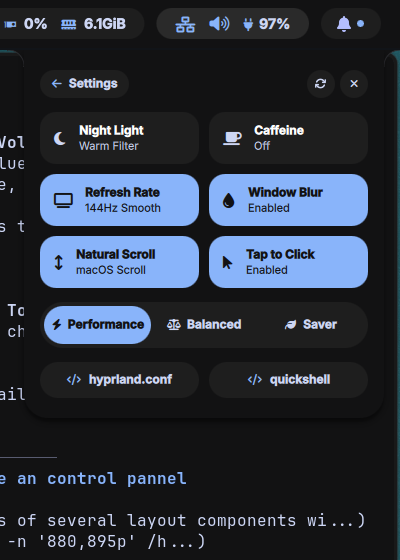
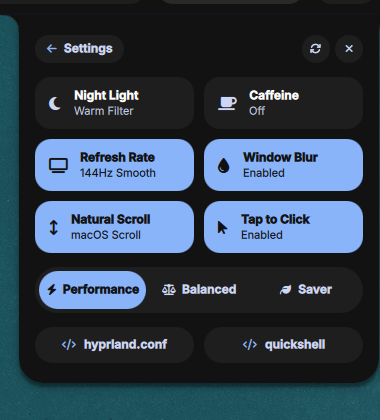
docs: update README with clean workspace screenshots and interactive UI showcase

diff --git a/README.md b/README.md
@@ -11,7 +11,7 @@ A modern, fluid, and cohesive Linux desktop environment powered by **Hyprland** 
 
 <br/>
 
-<img src="assets/desktop_preview.png" alt="Desktop Preview" width="90%"/>
+<img src="assets/desktop_preview.png" alt="Clean Desktop Preview" width="100%"/>
 
 </div>
 
@@ -19,28 +19,50 @@ A modern, fluid, and cohesive Linux desktop environment powered by **Hyprland** 
 
 ---
 
-## ✨ Features
+## ✨ Interface Showcase
 
 <table>
   <tr>
     <td width="50%" align="center">
       <b>🎛 Main Control Panel</b><br/>
       <i>GNOME-style Quick Toggles & Trio of Pill Sliders</i><br/><br/>
-      <img src="assets/control_panel.png" width="340" />
+      <img src="assets/control_panel.png" width="350" />
     </td>
     <td width="50%" align="center">
       <b>⚙ System Settings Panel</b><br/>
       <i>Unified 2×3 Grid & Sliding Power Profile</i><br/><br/>
-      <img src="assets/settings_panel.png" width="340" />
+      <img src="assets/settings_panel.png" width="350" />
+    </td>
+  </tr>
+  <tr>
+    <td width="50%" align="center">
+      <b>🚀 Application Launcher</b><br/>
+      <i>Centered search & categorized quick launch</i><br/><br/>
+      <img src="assets/clean_launcher.png" width="480" />
+    </td>
+    <td width="50%" align="center">
+      <b>🖼 Animated Wallpaper Selector</b><br/>
+      <i>Grid explorer, folder picker & cross-fade engine</i><br/><br/>
+      <img src="assets/clean_wallpapers.png" width="480" />
+    </td>
+  </tr>
+  <tr>
+    <td colspan="2" align="center">
+      <b>🎵 Full Media Player</b><br/>
+      <i>Interactive playback, waveform visualizer & album art glow</i><br/><br/>
+      <img src="assets/clean_media_player.png" width="70%" />
     </td>
   </tr>
 </table>
 
-### 🌟 Desktop Shell & UI
+---
+
+## 🌟 Desktop Shell & UI Features
+
 - **Top Bar (`Bar.qml`):** Floating curved capsule with active workspaces, live clock & calendar, dynamic music ticker, and interactive system status pill.
 - **Control Panel (`ControlPanel.qml`):**
   - Instantaneous 144Hz C++ PipeWire volume slider with audio sink switcher.
-  - Dedicated microphone volume & mute slider.
+  - Dedicated microphone volume & mute slider with real-time feedback.
   - Screen brightness slider with hardware backlight integration.
   - Wi-Fi, Bluetooth, Do Not Disturb, and Notification toggles.
 - **System Settings Panel:**
@@ -132,11 +154,11 @@ sudo pacman -S ttf-font-awesome ttf-inter ttf-jetbrains-mono-nerd
 │   ├── cava/               # Audio visualizer config & shaders
 │   ├── btop/               # System monitor theme
 │   └── fish/               # Fish shell configuration
-├── assets/                 # Screenshots and preview media
+├── assets/                 # High-resolution screenshots and showcase media
 ├── install.sh              # Automated interactive installer
 ├── uninstall.sh            # Backup restorer & uninstaller
 ├── .gitignore              # Clean ignore rules
-└── README.md               # Documentation
+└── README.md               # Documentation & keybinding guide
 ```
 
 ---
